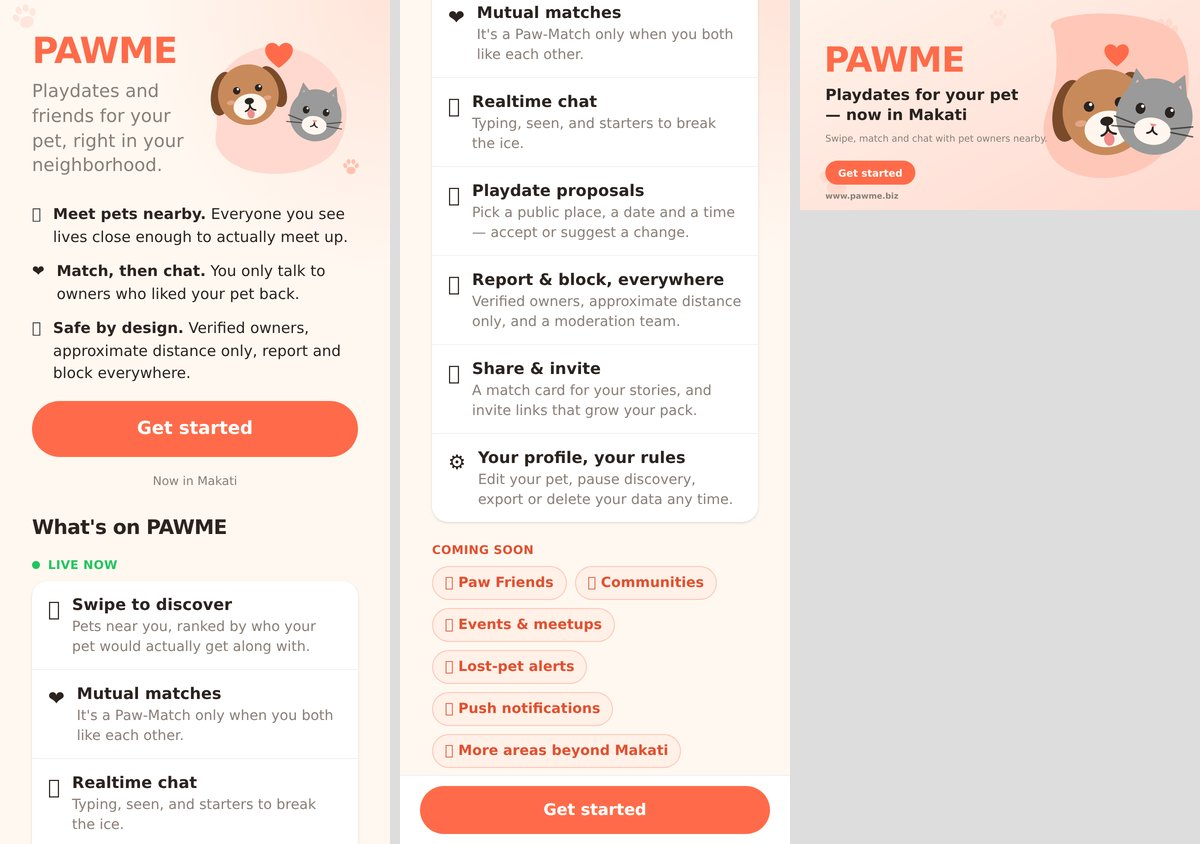
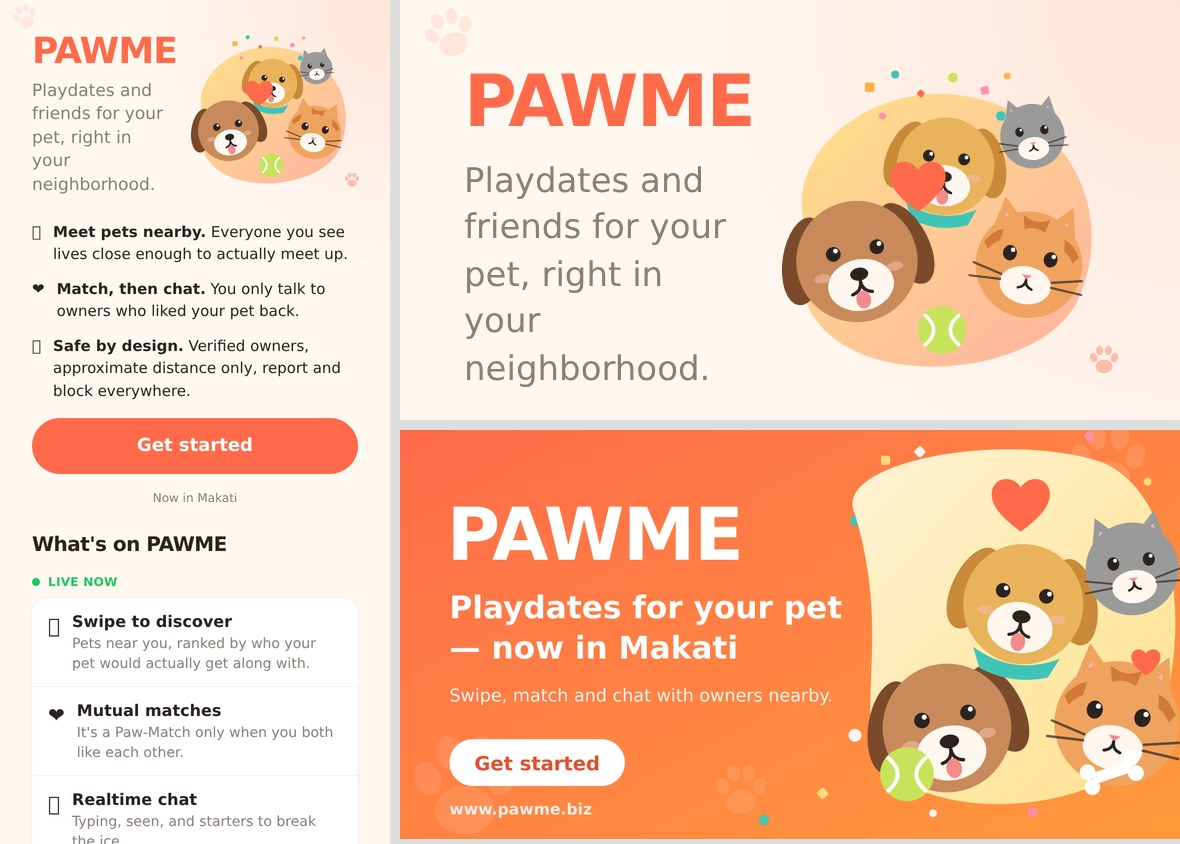
Richer landing hero + bolder OG card
- Hero: a small pack (brown dog, golden dog with bandana, orange tabby, grey
  cat), sunny yellow-to-peach blob, confetti and a tennis ball; still original
  vector art; 'Get started' remains above the fold at 360×640
- og.png: coral-to-orange background, white type, four pets with heart, ball,
  bone and confetti; same 1200×630, same headline

diff --git a/src/components/PetArt.tsx b/src/components/PetArt.tsx
@@ -4,7 +4,7 @@
 
 const DARK = '#2b2320';
 
-export function DogFace({ fur = '#c98a5b', ear = '#7a4a2b', size = 120, tilt = 0, tongue = true }: { fur?: string; ear?: string; size?: number; tilt?: number; tongue?: boolean }) {
+export function DogFace({ fur = '#c98a5b', ear = '#7a4a2b', bandana, size = 120, tilt = 0, tongue = true }: { fur?: string; ear?: string; bandana?: string; size?: number; tilt?: number; tongue?: boolean }) {
   return (
     <svg width={size} height={size} viewBox="0 0 200 200" aria-hidden style={{ transform: `rotate(${tilt}deg)` }}>
       <ellipse cx="44" cy="96" rx="24" ry="48" fill={ear} transform="rotate(18 44 96)" />
@@ -17,16 +17,18 @@ export function DogFace({ fur = '#c98a5b', ear = '#7a4a2b', size = 120, tilt = 0
       <path d="M100 127 q0 12 -11 14 M100 127 q0 12 11 14" stroke={DARK} strokeWidth="3.5" fill="none" strokeLinecap="round" />
       {tongue && <ellipse cx="100" cy="148" rx="8" ry="10" fill="#f28b8b" />}
       <ellipse cx="60" cy="118" rx="9" ry="5" fill="#f5b7a5" opacity=".6" /><ellipse cx="140" cy="118" rx="9" ry="5" fill="#f5b7a5" opacity=".6" />
+      {bandana && <path d="M52 160 q48 26 96 0 l-10 22 q-38 14 -76 0 z" fill={bandana} />}
     </svg>
   );
 }
 
-export function CatFace({ fur = '#9a9a9a', size = 120, tilt = 0 }: { fur?: string; size?: number; tilt?: number }) {
+export function CatFace({ fur = '#9a9a9a', stripes, size = 120, tilt = 0 }: { fur?: string; stripes?: string; size?: number; tilt?: number }) {
   return (
     <svg width={size} height={size} viewBox="0 0 200 200" aria-hidden style={{ transform: `rotate(${tilt}deg)` }}>
       <polygon points="46,96 60,34 104,78" fill={fur} /><polygon points="154,96 140,34 96,78" fill={fur} />
       <polygon points="56,86 64,52 92,78" fill="#f4b6b6" /><polygon points="144,86 136,52 108,78" fill="#f4b6b6" />
       <circle cx="100" cy="108" r="62" fill={fur} />
+      {stripes && <g fill={stripes} opacity=".8"><path d="M84 52 q16 10 32 0 l-4 16 q-12 -6 -24 0 z" /><path d="M44 90 q8 -14 20 -18 l-2 14 q-8 4 -12 12 z" /><path d="M156 90 q-8 -14 -20 -18 l2 14 q8 4 12 12 z" /></g>}
       <ellipse cx="100" cy="132" rx="30" ry="22" fill="#fff7ef" />
       <ellipse cx="76" cy="98" rx="8" ry="9" fill={DARK} /><ellipse cx="124" cy="98" rx="8" ry="9" fill={DARK} />
       <circle cx="79" cy="94" r="2.6" fill="#fff" /><circle cx="127" cy="94" r="2.6" fill="#fff" />
@@ -51,18 +53,41 @@ export function PawPrint({ size = 40, color = '#ff6b4a', opacity = 1 }: { size?:
   );
 }
 
-/** The welcome-screen hero: a dog and a cat, cheek to cheek, on a warm blob. */
+/** The welcome-screen hero: a small pack — two dogs, two cats, a ball — on a sunny blob. */
 export function HeroArt() {
   return (
-    <div className="relative h-36 w-40 shrink-0" data-testid="hero-art">
-      <svg className="absolute inset-0" viewBox="0 0 160 144" aria-hidden>
-        <path d="M18 80 C 6 40, 50 4, 92 14 C 140 24, 162 70, 140 112 C 122 146, 44 150, 22 118 C 12 104, 22 96, 18 80 Z" fill="#ffd9cf" />
+    <div className="relative h-40 w-44 shrink-0" data-testid="hero-art">
+      <svg className="absolute inset-0" viewBox="0 0 176 160" aria-hidden>
+        <defs><linearGradient id="hero-blob" x1="0" y1="0" x2="1" y2="1"><stop offset="0" stop-color="#ffe08a" /><stop offset="1" stop-color="#ffb3a0" /></linearGradient></defs>
+        <path d="M22 84 C 6 44, 54 6, 100 14 C 152 22, 178 72, 156 118 C 136 154, 52 162, 26 126 C 14 110, 26 100, 22 84 Z" fill="url(#hero-blob)" />
       </svg>
-      <div className="absolute left-1 top-3"><DogFace size={92} tilt={-8} /></div>
-      <div className="absolute right-0 top-9"><CatFace size={84} tilt={8} /></div>
-      <div className="absolute left-[64px] top-[4px]"><HeartBadge /></div>
-      <div className="absolute -right-1 bottom-0"><PawPrint size={22} opacity={0.35} /></div>
+      <Confetti className="absolute inset-x-2 top-0 h-8 w-40" />
+      <div className="absolute left-[54px] top-[10px]"><DogFace size={74} tilt={6} fur="#e8b35a" ear="#c98a3a" bandana="#3ec5b7" /></div>
+      <div className="absolute left-0 top-[48px]"><DogFace size={92} tilt={-10} /></div>
+      <div className="absolute right-0 top-[52px]"><CatFace size={86} tilt={10} fur="#f0a35e" stripes="#c9702b" /></div>
+      <div className="absolute left-[108px] top-[6px]"><CatFace size={52} tilt={-6} fur="#9a9a9a" /></div>
+      <div className="absolute left-[76px] top-[118px]"><Ball size={26} /></div>
+      <div className="absolute left-[60px] top-[42px]"><HeartBadge /></div>
+      <div className="absolute -right-1 bottom-1"><PawPrint size={20} opacity={0.4} /></div>
     </div>
+  );
+}
+
+export function Ball({ size = 28 }: { size?: number }) {
+  return (
+    <svg width={size} height={size} viewBox="0 0 100 100" aria-hidden>
+      <circle cx="50" cy="50" r="46" fill="#c6e35b" />
+      <path d="M18 22 q32 28 0 56 M82 22 q-32 28 0 56" stroke="#fff" strokeWidth="7" fill="none" strokeLinecap="round" />
+    </svg>
+  );
+}
+
+export function Confetti({ className = '' }: { className?: string }) {
+  const dots: [number, number, number, string][] = [[6, 12, 3, '#ffb347'], [22, 4, 2.5, '#3ec5b7'], [38, 16, 2, '#ff6b4a'], [58, 6, 3, '#c6e35b'], [78, 14, 2.5, '#ff8fb1'], [92, 5, 2, '#ffb347'], [14, 30, 2, '#ff8fb1'], [88, 30, 3, '#3ec5b7']];
+  return (
+    <svg className={className} viewBox="0 0 100 40" aria-hidden>
+      {dots.map(([x, y, r, c], i) => (i % 2 ? <circle key={i} cx={x} cy={y} r={r} fill={c} /> : <rect key={i} x={x - r} y={y - r} width={r * 2} height={r * 2} rx="1" fill={c} transform={`rotate(${20 * i} ${x} ${y})`} />))}
+    </svg>
   );
 }
 

diff --git a/src/screens/Login.tsx b/src/screens/Login.tsx
@@ -57,7 +57,7 @@ export default function Login() {
             <div className="pointer-events-none absolute -left-6 -top-8 rotate-[-20deg]"><PawPrint size={34} opacity={0.12} /></div>
             <div className="min-w-0 flex-1">
               <h1 className="text-4xl font-extrabold tracking-tight text-brand">PAWME</h1>
-              <p className="mt-2 text-lg leading-snug text-muted">Playdates and friends for your pet, right in your neighborhood.</p>
+              <p className="mt-2 text-[17px] leading-snug text-muted">Playdates and friends for your pet, right in your neighborhood.</p>
             </div>
             <HeroArt />
           </div>
